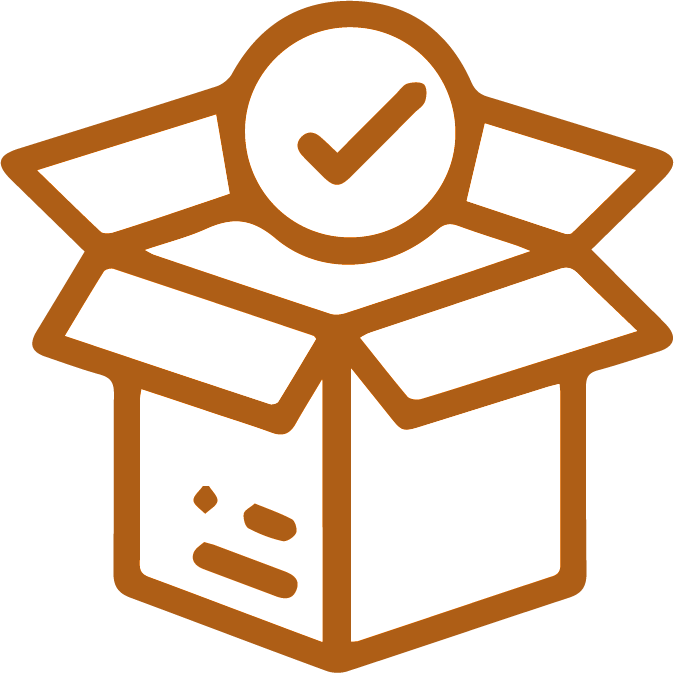
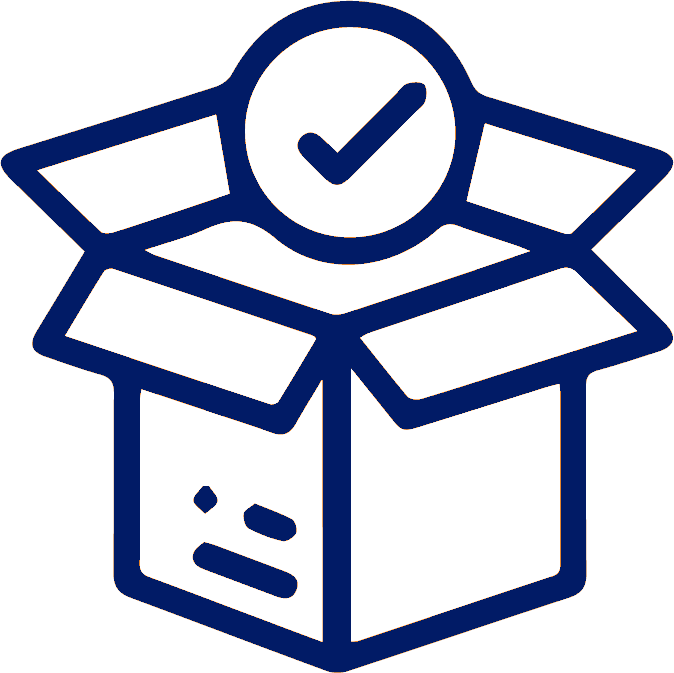
seção pacote ideia

Changed region(s): [[0.0, 0.0, 1.0, 0.9985], [0.2804, 0.7177, 0.3427, 0.7801]]

diff --git a/index.html b/index.html
@@ -32,22 +32,29 @@
     <!-- Iniciando efeito particulas -->
     <div id="particles-js"></div>
 
+    <section class="texto">
+        <h2>Lorem ipsum dolor sit amet consectetur adipisicing elit. Asperiores, expedita.</h2>
+    </section>
+
     <section class="pacote-ideia">
-        <h2>Lorem ipsum dolor sit, amet consectetur adipisicing elit. Totam, ab.</h2>
+        <h2 class="pacote-ideia-title">Tenha as mais avançadas ferramentas para aumentar sua produtividade</h2>
         <div class="card-pacote-ideia">
-            <p>Lorem ipsum dolor sit amet consectetur adipisicing elit. Omnis, voluptate?</p>
+            <p class="card-pacote-ideia-paragrafo">O Pacote Ideia inclui as mais avançadas soluções:</p>
             <div class="row">
-                <div col-1-3>
-                    <p>Lorem ipsum dolor sit amet.</p>
+
+                <div class="col-1-3">
+                    <p class="card-pacote-ideia-desc">Pacote Ideia</p>
                     <img src="img/icone.png" alt="pacote ideia">
-                    <p>R$ 550/mes</p>
+                    <p class="card-pacote-ideia-valor">R$ 550/mes</p>
                 </div>
+
                 <div class="col-1-3">
                     <p>Lorem ipsum dolor sit amet consectetur adipisicing elit. Rerum dolorum consequatur veniam molestiae ex id!</p>
                     <p>Lorem ipsum dolor sit, amet consectetur adipisicing elit. Inventore fugit libero magni, ab debitis possimus!</p>
                     <p>Lorem ipsum dolor sit amet consectetur adipisicing elit. Nam suscipit, ipsa tempora dicta minus maxime.</p>
                     <p>Lorem ipsum dolor sit amet consectetur adipisicing elit. At tempora reprehenderit tenetur harum architecto minima.</p>
                 </div>
+
                 <div class="col-1-3">
                     <p>Lorem ipsum, dolor sit amet consectetur adipisicing elit. Quisquam, deleniti. Qui accusantium ipsam vel cumque?</p>
                     <p>Lorem ipsum dolor sit amet consectetur adipisicing elit. Quas tempora fuga facere quisquam itaque quod!</p>

diff --git a/css/style.css b/css/style.css
@@ -13,6 +13,7 @@ body{
     top: 0;
     box-shadow: 0px 2px 5px rgba(0, 0, 0, .5);
     width: 100%;
+    background-color: white;
 }
 
 .menu{
@@ -36,3 +37,54 @@ body{
     color: white;
 }
 
+.pacote-ideia{
+    background-image: linear-gradient(to right,#010a27, #0028a0);
+    height: 520px;
+}
+
+.pacote-ideia-title{
+    font-size: 22px;
+    color: white;
+    text-align: center;
+    padding-top: 30px;
+    font-weight: normal;
+}
+
+.card-pacote-ideia{
+    background-color: white;
+    width: 800px;
+    margin: auto;
+    padding: 15px 30px;
+    border-radius: 10px;
+}
+
+.card-pacote-ideia-paragrafo{
+    display: inline-block;
+    margin-left: 35%;
+    color: #0033ce;
+    font-weight: 500;
+}
+
+.card-pacote-ideia-desc{
+    text-transform: uppercase;
+    color: #0033ce;
+    font-size: 24px;
+    font-weight: 500;
+}
+
+.card-pacote-ideia img{
+    width: 100px;
+    height: 100px;
+}
+
+.card-pacote-ideia-valor{
+    color: #0033ce;
+    font-size: 24px;
+    font-weight: 500;
+}
+
+/* Formatação da GRID */
+.col-1-3{
+    width: 31%;
+    float: left;
+}
